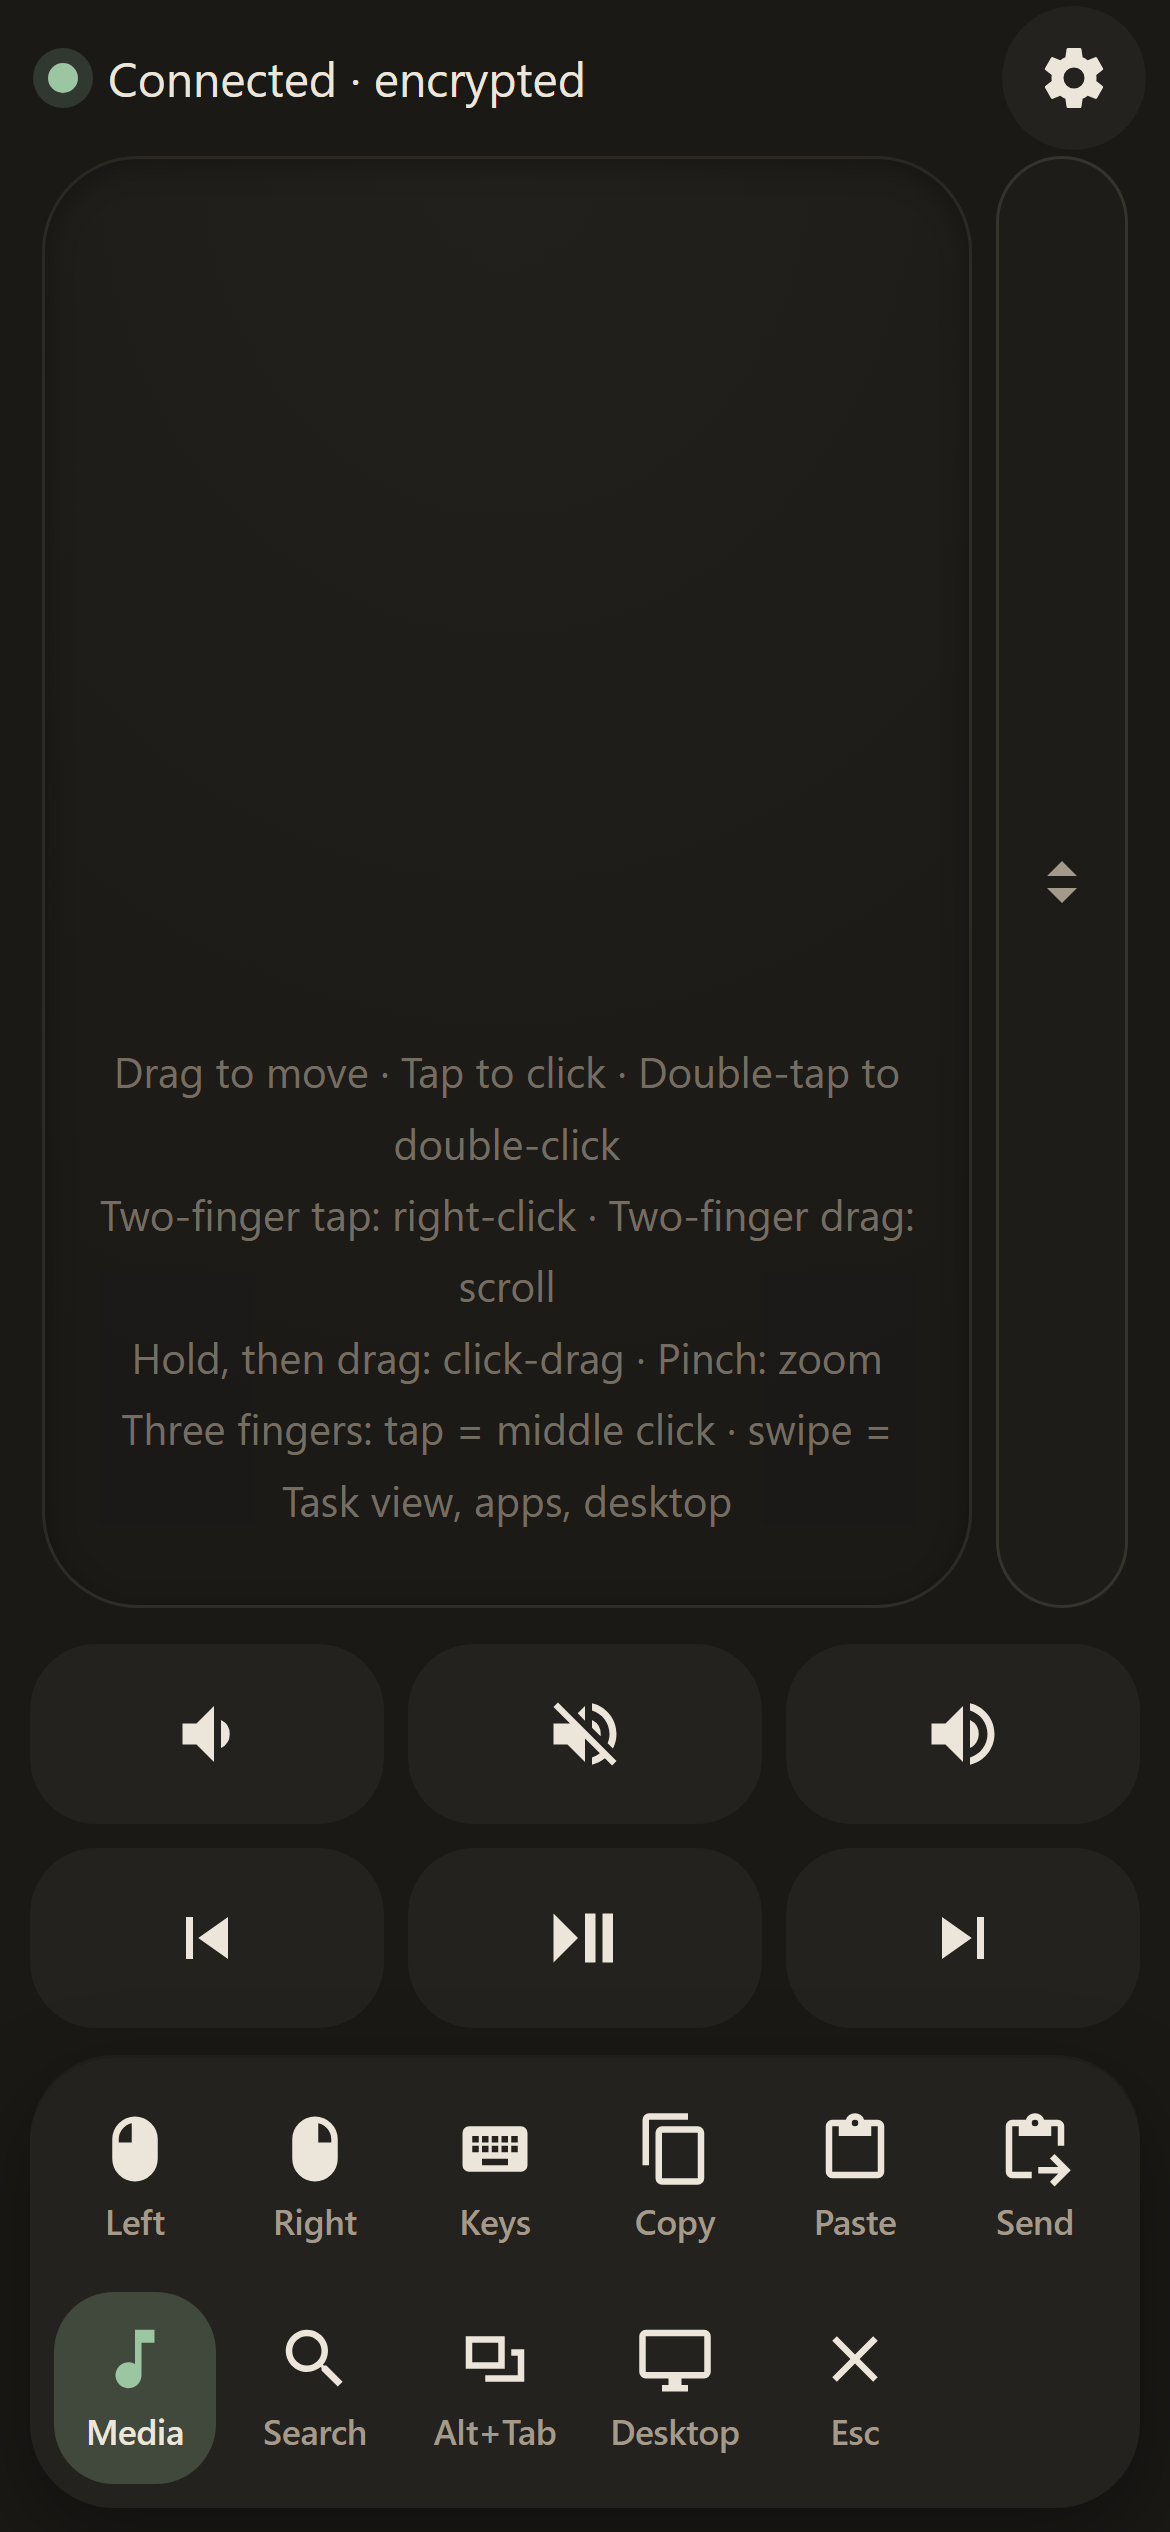
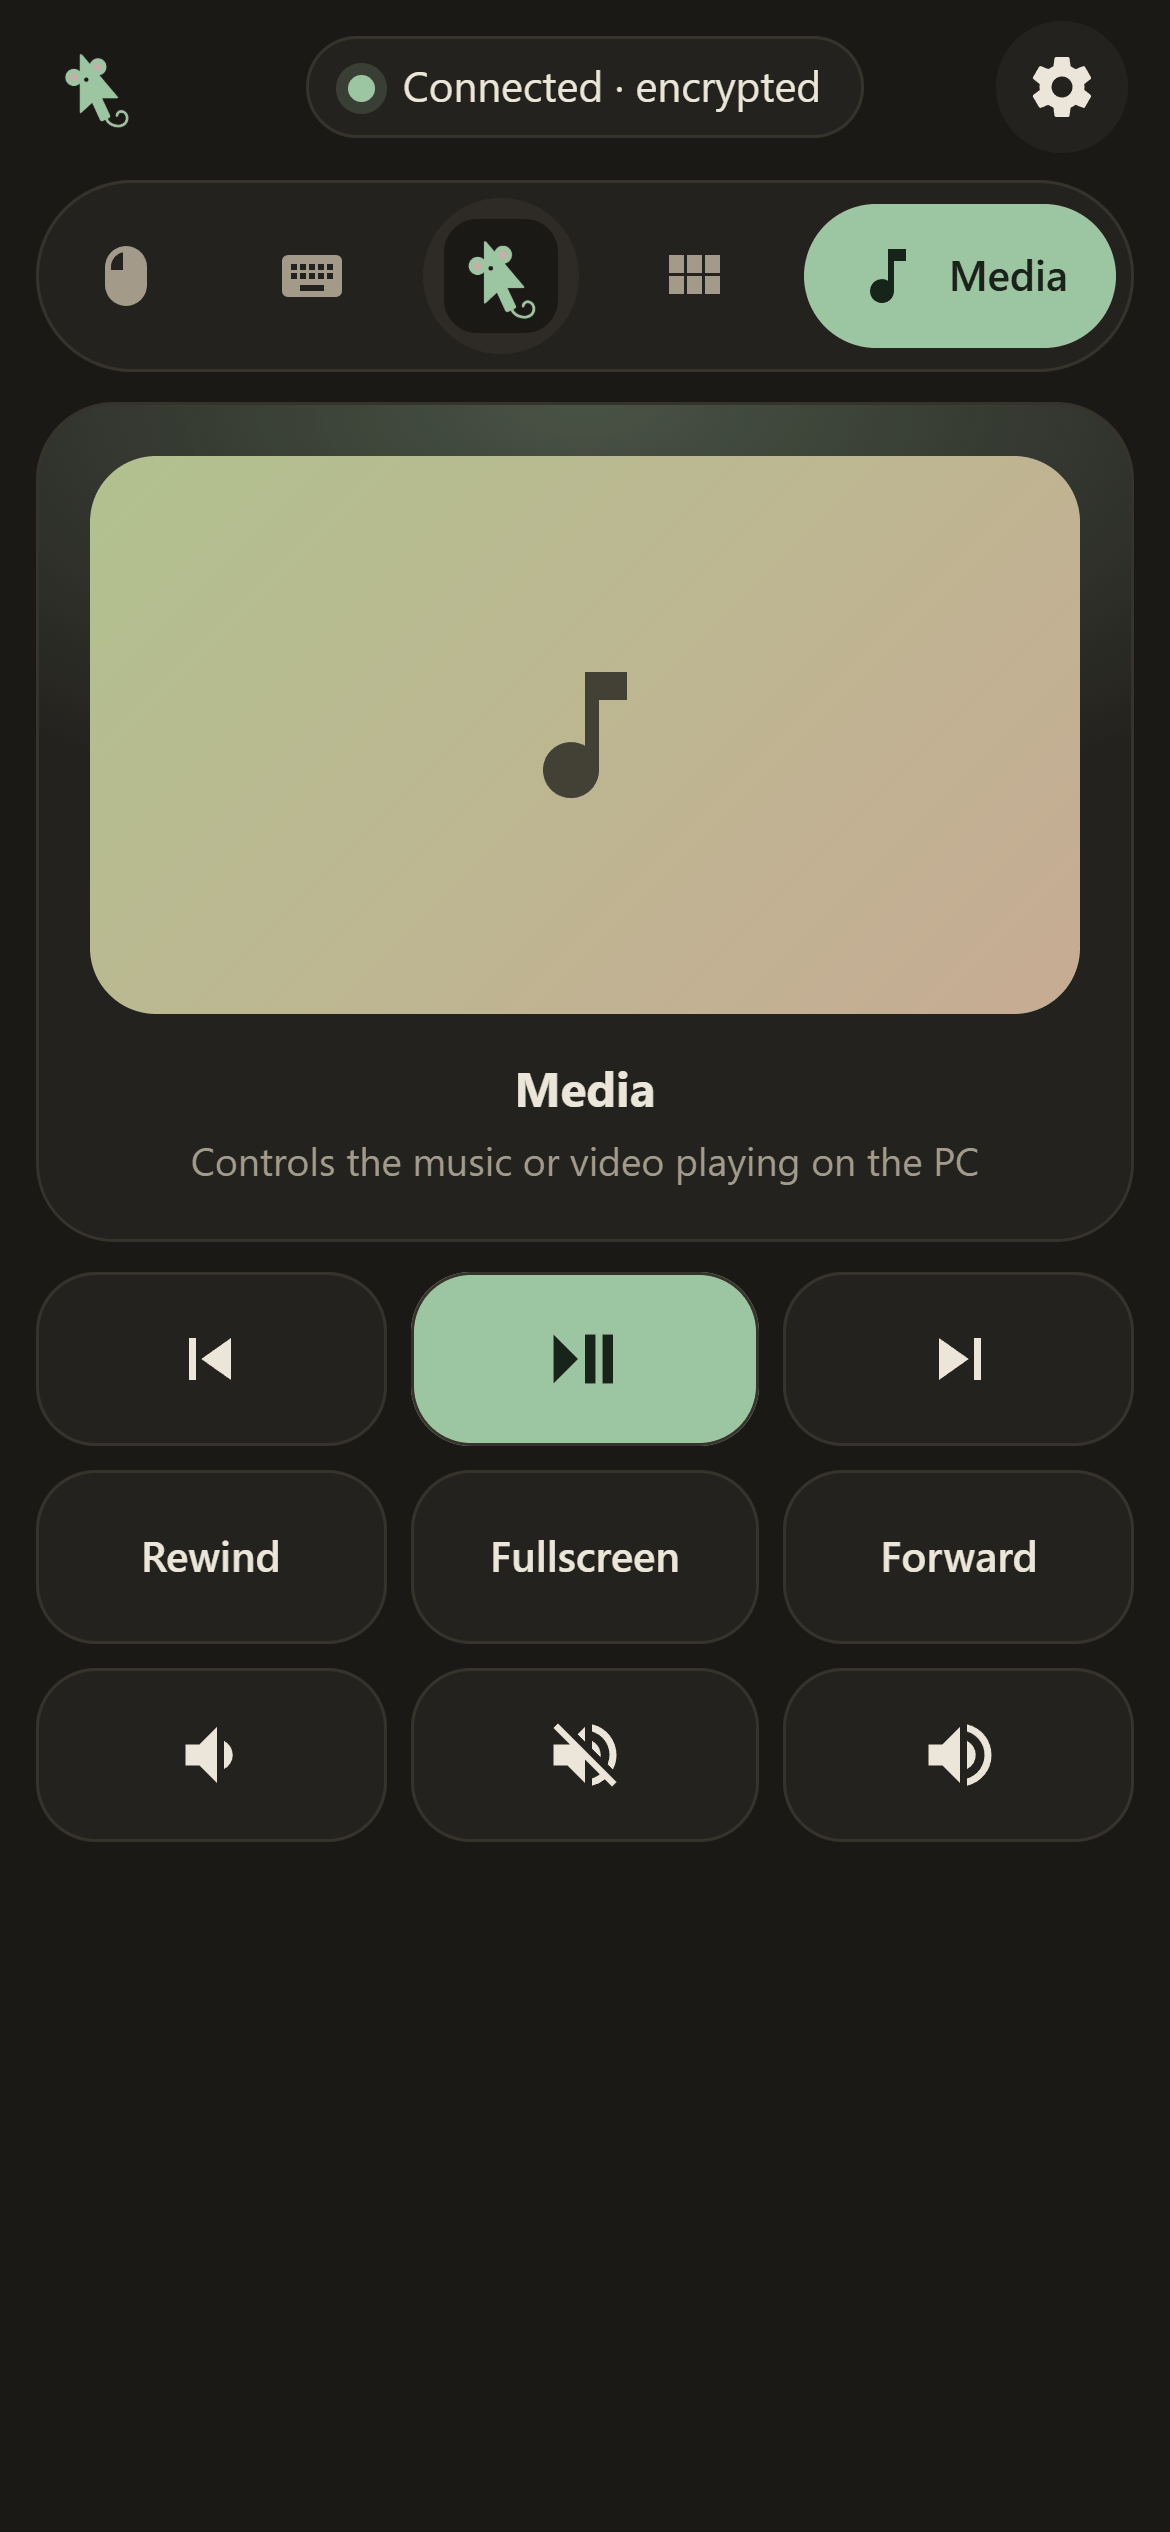
README 2.0: hero image, cards for the four tabs, gesture GIF, real-life uses, comparison table, new screenshots

diff --git a/README.md b/README.md
@@ -4,9 +4,9 @@
 
 # Mousette
 
-### Trackpad & keyboard in your pocket
+### Your whole PC in one hand
 
-Turn your iPhone, iPad or Android phone into a trackpad and keyboard for your Windows PC.<br>
+Trackpad, keyboard, your own buttons and media controls for your Windows PC, on your iPhone, iPad or Android phone.<br>
 **Runs in the phone's browser: no app to install, no account, no cloud.**
 
 <br>
@@ -24,11 +24,7 @@ Turn your iPhone, iPad or Android phone into a trackpad and keyboard for your Wi
 
 <br>
 
-<img src="docs/screenshot-trackpad.png" width="230" alt="Mousette trackpad with the scroll strip and the bottom bar buttons">
-&nbsp;
-<img src="docs/screenshot-media.png" width="230" alt="Mousette with the Media panel open: volume down, mute, volume up, previous, play/pause, next">
-&nbsp;
-<img src="docs/screenshot-settings.png" width="230" alt="Mousette settings: scroll strip, accent colors and bar buttons">
+<img src="docs/hero.png" width="800" alt="A Windows 11 PC playing a video, with the Mousette cursor on it, and a phone in front showing the Mousette trackpad, connected and encrypted">
 
 </div>
 
@@ -57,6 +53,62 @@ Turn your iPhone, iPad or Android phone into a trackpad and keyboard for your Wi
 </tr>
 </table>
 
+## Four tabs, one hand
+
+<table>
+<tr>
+<td width="50%" align="center" valign="top">
+
+<img src="docs/screenshot-trackpad.png" width="260" alt="Trackpad tab: a large pad, Click and Right-click buttons, and a row of small shortcut keys">
+
+**Trackpad**<br>
+<sub>Windows gestures: two-finger scroll that keeps gliding, pinch to zoom, three- and four-finger swipes for Task view, apps and desktops. Big Click and Right-click buttons under your thumb.</sub>
+
+</td>
+<td width="50%" align="center" valign="top">
+
+<img src="docs/screenshot-keyboard.png" width="260" alt="Keyboard tab: type box, F1 to F12, Ctrl Alt Shift Win with Ctrl held, Esc Tab Del Backspace, Home End PgUp PgDn, arrows and Enter">
+
+**Keyboard**<br>
+<sub>Type in any language with your phone's keyboard. F1–F12, arrows, and sticky Ctrl, Alt, Shift and Win: tap Ctrl, then C, for Ctrl+C.</sub>
+
+</td>
+</tr>
+<tr>
+<td width="50%" align="center" valign="top">
+
+<img src="docs/screenshot-deck.png" width="260" alt="Deck tab: buttons for Search, Alt+Tab, Desktop, New tab, Reopen tab, Close tab, Screenshot and Add button">
+
+**Deck**<br>
+<sub>Your own buttons: a shortcut, a piece of text, a website or an app, with your own name, icon and colour. Saved on the PC, so every phone gets them.</sub>
+
+</td>
+<td width="50%" align="center" valign="top">
+
+<img src="docs/screenshot-media.png" width="260" alt="Media tab: previous, play/pause, next, rewind, fullscreen, forward, volume down, mute, volume up">
+
+**Media**<br>
+<sub>Play/pause, next and previous track, rewind and forward, fullscreen and volume, for music and videos on the PC.</sub>
+
+</td>
+</tr>
+</table>
+
+<p align="center">
+  <img src="docs/gestures.gif" width="300" alt="Animation of the trackpad gestures: drag to move, two-finger scroll, pinch to zoom, three fingers up for Task view, three fingers sideways to switch apps, hold and drag to select">
+  &nbsp;&nbsp;
+  <img src="docs/screenshot-quick.png" width="260" alt="Quick actions opened from the mouse button in the middle of the tab bar: Copy, Paste, Send text, Search, Alt+Tab, Desktop, Task Manager, Screenshot, Shut down">
+</p>
+<p align="center"><sub>Left: the gestures. Right: <b>Quick actions</b>, one tap on the little mouse in the tab bar.</sub></p>
+
+## Made for real life
+
+- **Movie night:** the laptop is on the TV and you're on the couch. Play, pause, skip back, go fullscreen and turn it down without getting up.
+- **Presenting:** next and previous slide with the arrows, F5 to start the show, and a Deck button that opens your slides.
+- **PC on the TV:** browse, search and type on the big screen with a real trackpad and keyboard in your hand.
+- **Couch gaming:** start a game from the couch, Alt+Tab out to change a setting, turn the volume up, then pick up the controller.
+- **Across the desk:** when the PC is out of reach, or the mouse is on the other side of a stack of books.
+
 ## Why Mousette?
 
 A program that controls your mouse and keyboard has to be one you can trust. Many remote mouse apps are closed source, keep a background service running after you close them, and send data you can't check. Mousette works differently:
@@ -69,15 +121,28 @@ A program that controls your mouse and keyboard has to be one you can trust. Man
 - **PIN protected:** a new random PIN on every start, and devices that guess wrong get locked out (see [Security](#security)).
 - **No phone app:** it runs in the phone's browser, so there's nothing to install from an app store.
 
+### How it compares
+
+| | **Mousette** | Remote Mouse | KDE Connect | CmdPalm |
+|---|---|---|---|---|
+| On the phone | Browser, no app | App from the app store | App from the app store | Browser, no app |
+| On the computer | Windows | Windows, Mac | Linux, Windows, Mac | Mac only |
+| Open source | Yes (MIT) | No | Yes (GPL) | Yes (AGPL) |
+| Price | Free | Free, with paid extras | Free | Free |
+| Your own buttons | Yes (Deck) | Yes | Run commands | Yes |
+| Account needed | No | No | No | No |
+
+<sub>From each project's own pages, October 2026. Something changed? [Tell us](https://github.com/Dizyy/Mousette/discussions).</sub>
+
 ## Features
 
 - **Quick to connect:** scan the QR code in the Mousette window with the phone camera.
 - **Encrypted connection:** the QR code gives the phone a secret key, and everything sent between the phone and the PC is encrypted with keys made from it (XSalsa20-Poly1305 from the NaCl library). The key reaches the phone through the camera, never over the network, and the phone stays paired after the PC restarts. Typing the PIN by hand connects without encryption, and the page tells you so. Details: [PROTOCOL.md](PROTOCOL.md#encryption).
 - **Trackpad with Windows gestures:** tap to click, two-finger tap to right-click, two-finger scroll that keeps gliding after a flick, pinch to zoom, three-finger tap to middle-click, three- and four-finger swipes for Task view, the app switcher, Show desktop and virtual desktops, hold and drag to select or move windows. Or scroll with one finger on the scroll strip next to the trackpad (turn it on or off in settings).
-- **Keyboard:** type in any language, including é ü ñ and emoji, or paste text from your phone onto the PC.
+- **Keyboard:** type in any language, including é ü ñ and emoji, or paste text from your phone onto the PC. F1–F12, arrows, Home/End, and sticky Ctrl, Alt, Shift and Win for any shortcut.
 - **Your own buttons (Deck):** make buttons for a keyboard shortcut, a piece of text to paste, a website or an app, with your own name, icon and colour. They're saved on the PC, so every phone gets the same buttons.
-- **Shortcuts and media:** Search, Alt+Tab, Task Manager, volume, play/pause, next track, shut down.
-- **Your layout:** 14 accent colors, and you pick which buttons the bottom bar shows and in what order.
+- **Quick actions and media:** Copy, Paste, Search, Alt+Tab, Task Manager, Screenshot, shut down; play/pause, next track, volume.
+- **Your layout:** 14 accent colors, the tab bar at the top or bottom, and you pick which shortcut keys the Trackpad tab shows and in what order.
 
 ## What works where
 
@@ -225,11 +290,22 @@ You only type the PIN once per server start. After that the phone stays logged i
 | Four-finger swipe left / right | Next / previous virtual desktop (up / down as with three fingers) |
 | Hold for about 0.4 s, then drag | Click-drag: select text, move windows. "Dragging" shows while it's active; lift your finger to release. |
 
-Bottom bar buttons: **Left**, **Right**, **Keys** (opens the on-screen keyboard; tap again to close), **Copy** (Ctrl+C), **Paste** (Ctrl+V), **Send** (paste text from your phone on the PC, see below), **Media** (opens volume −, mute, volume +, previous, play/pause and next; tap Media again or anywhere else to close), **Search** (Win+S), **Alt+Tab**, **Desktop** (Win+D), **Esc**. Under **Buttons on the bar** in settings, untick the ones you don't need; up to 7 fit in one row, more wrap into two. Under **Bar order**, drag a button by its handle (or use the arrows) to move it, and under **Bar alignment** choose **Left**, **Center**, **Right** or **Spread** (the default). **Reset bar** brings back all buttons in the original order.
+### The tabs
 
-**Send text from your phone:** copy something on the phone, tap **Send**, paste it into the box and tap **Paste on PC**. It's pasted where the cursor is on the PC, in one go, line breaks included. You can also paste while **Keys** is open (for example from the keyboard's clipboard on Android): it's pasted on the PC the same way.
+The tab bar has **Trackpad**, **Keyboard**, **Deck** and **Media**, with the little mouse in the middle for **Quick actions**.
 
-The gear icon opens settings for **cursor sensitivity**, **scroll speed**, the **scroll strip**, the **accent color** and the **bar buttons**. These are saved on the phone. The accent color also colors the QR code in the Mousette window, and the color dots above **Show QR encryption code** change it on the phone: the PC and the phone always match. With the scroll strip turned on, a narrow bar appears to the right of the trackpad: drag one finger up or down on it to scroll.
+- **Trackpad:** the pad with **Click** and **Right-click** under it, and a row of small shortcut keys (Esc, Tab, arrows, Copy, Paste). In settings, under **Shortcut keys**, put the row at the **Top** or **Bottom** or turn it **Off**, untick keys you don't need, and drag them by the handle (or use the arrows) to change the order. **Reset shortcut keys** brings them all back.
+- **Keyboard:** tap the box at the top to open your phone's keyboard; tap it again to close it. Below it are **F1–F12**, **Ctrl**, **Alt**, **Shift** and **Win**, Esc, Tab, Del, Backspace, Home, End, PgUp, PgDn, the arrows and Enter.
+  - Tap **Ctrl**, **Alt**, **Shift** or **Win** and it's held for the next key only (outlined), so **Ctrl** then **C** is Ctrl+C. Letters typed on the phone keyboard work too.
+  - Tap it twice quickly to keep it on (filled, with a small bar), for example **Ctrl** with several arrow presses. Tap it once more to turn it off.
+  - The held keys also apply to the shortcut keys on the Trackpad tab.
+- **Deck:** your own buttons. Tap **Edit**, then **Add button**, and choose what it does: a **shortcut** (pick Ctrl/Alt/Shift/Win and a key), **text** to paste (optionally pressing Enter after it), a **website** to open in the PC's browser, or an **app** to open through Windows search. Give it a name, an icon and a colour. In Edit mode, tap a button to change or delete it, and hold one, then drag it to move it. The buttons are saved on the PC, so every phone that connects gets the same Deck. Until you change it, the Deck shows a few useful shortcuts.
+- **Media:** previous, play/pause and next, rewind and forward (the arrow keys, which most video players use), fullscreen (F) and volume down, mute and up.
+- **Quick actions:** tap the little mouse in the middle of the tab bar for **Copy**, **Paste**, **Send text**, **Search** (Win+S), **Alt+Tab**, **Desktop** (Win+D), **Task Manager**, **Screenshot** (Win+Shift+S) and **Shut down**. Tap anywhere else to close it.
+
+**Send text from your phone:** copy something on the phone, tap the little mouse, then **Send text**, paste it into the box and tap **Paste on PC**. It's pasted where the cursor is on the PC, in one go, line breaks included. You can also paste while the phone keyboard is open on the Keyboard tab (for example from the keyboard's clipboard on Android): it's pasted on the PC the same way.
+
+The gear icon opens settings for **cursor sensitivity**, **scroll speed**, the **scroll strip**, the **accent color**, the **tab bar** (top or bottom) and the **shortcut keys**. These are saved on the phone. The accent color also colors the QR code in the Mousette window, and the color dots above **Show QR encryption code** change it on the phone: the PC and the phone always match. With the scroll strip turned on, a narrow bar appears to the right of the trackpad: drag one finger up or down on it to scroll.
 
 The settings also have **PC** buttons:
 - **Task Manager** opens Task Manager. Mousette must run as administrator: it then starts Task Manager itself, with admin rights, so Windows doesn't ask for your PIN or password. (Ctrl+Shift+Esc would let Windows start it, and if you set User Account Control to ask for a PIN, that prompt can only be answered on the PC.)
@@ -301,7 +377,7 @@ If it already says **Private**, add the port rule from step 3. A dismissed firew
 
 **New buttons or settings don't show after updating Mousette.** The phone is still showing an older saved copy of the page. Open the address in the browser and tap reload once, then add the home-screen icon again.
 
-**Typing does nothing.** First click into a text field on the PC (tap the trackpad), then tap **Keys**.
+**Typing does nothing.** First click into a text field on the PC (tap the trackpad), then open the **Keyboard** tab and tap the box at the top.
 
 **The phone stops working after opening Task Manager or the On-Screen Keyboard.** Windows doesn't let normal programs control windows that run as administrator. While such a window is in front, all input from the phone is ignored, until you click another window with the real mouse. Click **Restart as administrator** in the Mousette window (from source: answer **Y** when `start.bat` starts). Even then, User Account Control prompts ("Do you want to allow…", or a PIN/password request) and the lock screen can't be controlled remotely: Windows shows them on a protected screen that only accepts the real keyboard and mouse. Use the **Task Manager** button in Settings rather than Ctrl+Shift+Esc to avoid that prompt.
 
@@ -313,7 +389,7 @@ If it already says **Private**, add the port rule from step 3. A dismissed firew
 - **Encryption:** when you connect by scanning the QR code, everything between the phone and the PC is encrypted, including the PIN and everything you type or paste. Someone else on your Wi-Fi can't read it, and recorded traffic can't be replayed. The QR code carries a secret key that never travels over the network. The phone keeps it, so it stays encrypted after the PC restarts (you still enter the new PIN). If you **type** the PIN instead of scanning, the connection is **not** encrypted, and the page tells you so: someone on the same Wi-Fi with network-sniffing tools could then read what you type. Details: [PROTOCOL.md](PROTOCOL.md#encryption).
 - The key is saved on the PC (`%APPDATA%\Mousette\key` on Windows). To unpair all phones, start Mousette with `--new-key` and scan the new QR code.
 - Don't run Mousette on public or untrusted Wi-Fi, and quit Mousette when you're done. Anyone **on your network who knows the current PIN** can control the PC.
-- Text you send with **Send** goes onto the PC clipboard. On Windows it is marked so it stays out of clipboard history (Win+V) and isn't synced to your other devices through the cloud clipboard. It stays on the clipboard itself until you copy something else.
+- Text you send with **Send text** goes onto the PC clipboard. On Windows it is marked so it stays out of clipboard history (Win+V) and isn't synced to your other devices through the cloud clipboard. It stays on the clipboard itself until you copy something else.
 - The Mousette window shows the PIN and a QR code that logs in with it and carries the encryption key. Close or minimise the window before you share your screen or stream (`Mousette.exe` keeps running in the tray).
 - Whoever is connected can also shut the PC down. When you run Mousette as administrator, the phone can also control admin windows and open Task Manager with admin rights, so only do that on a network you trust.
 
